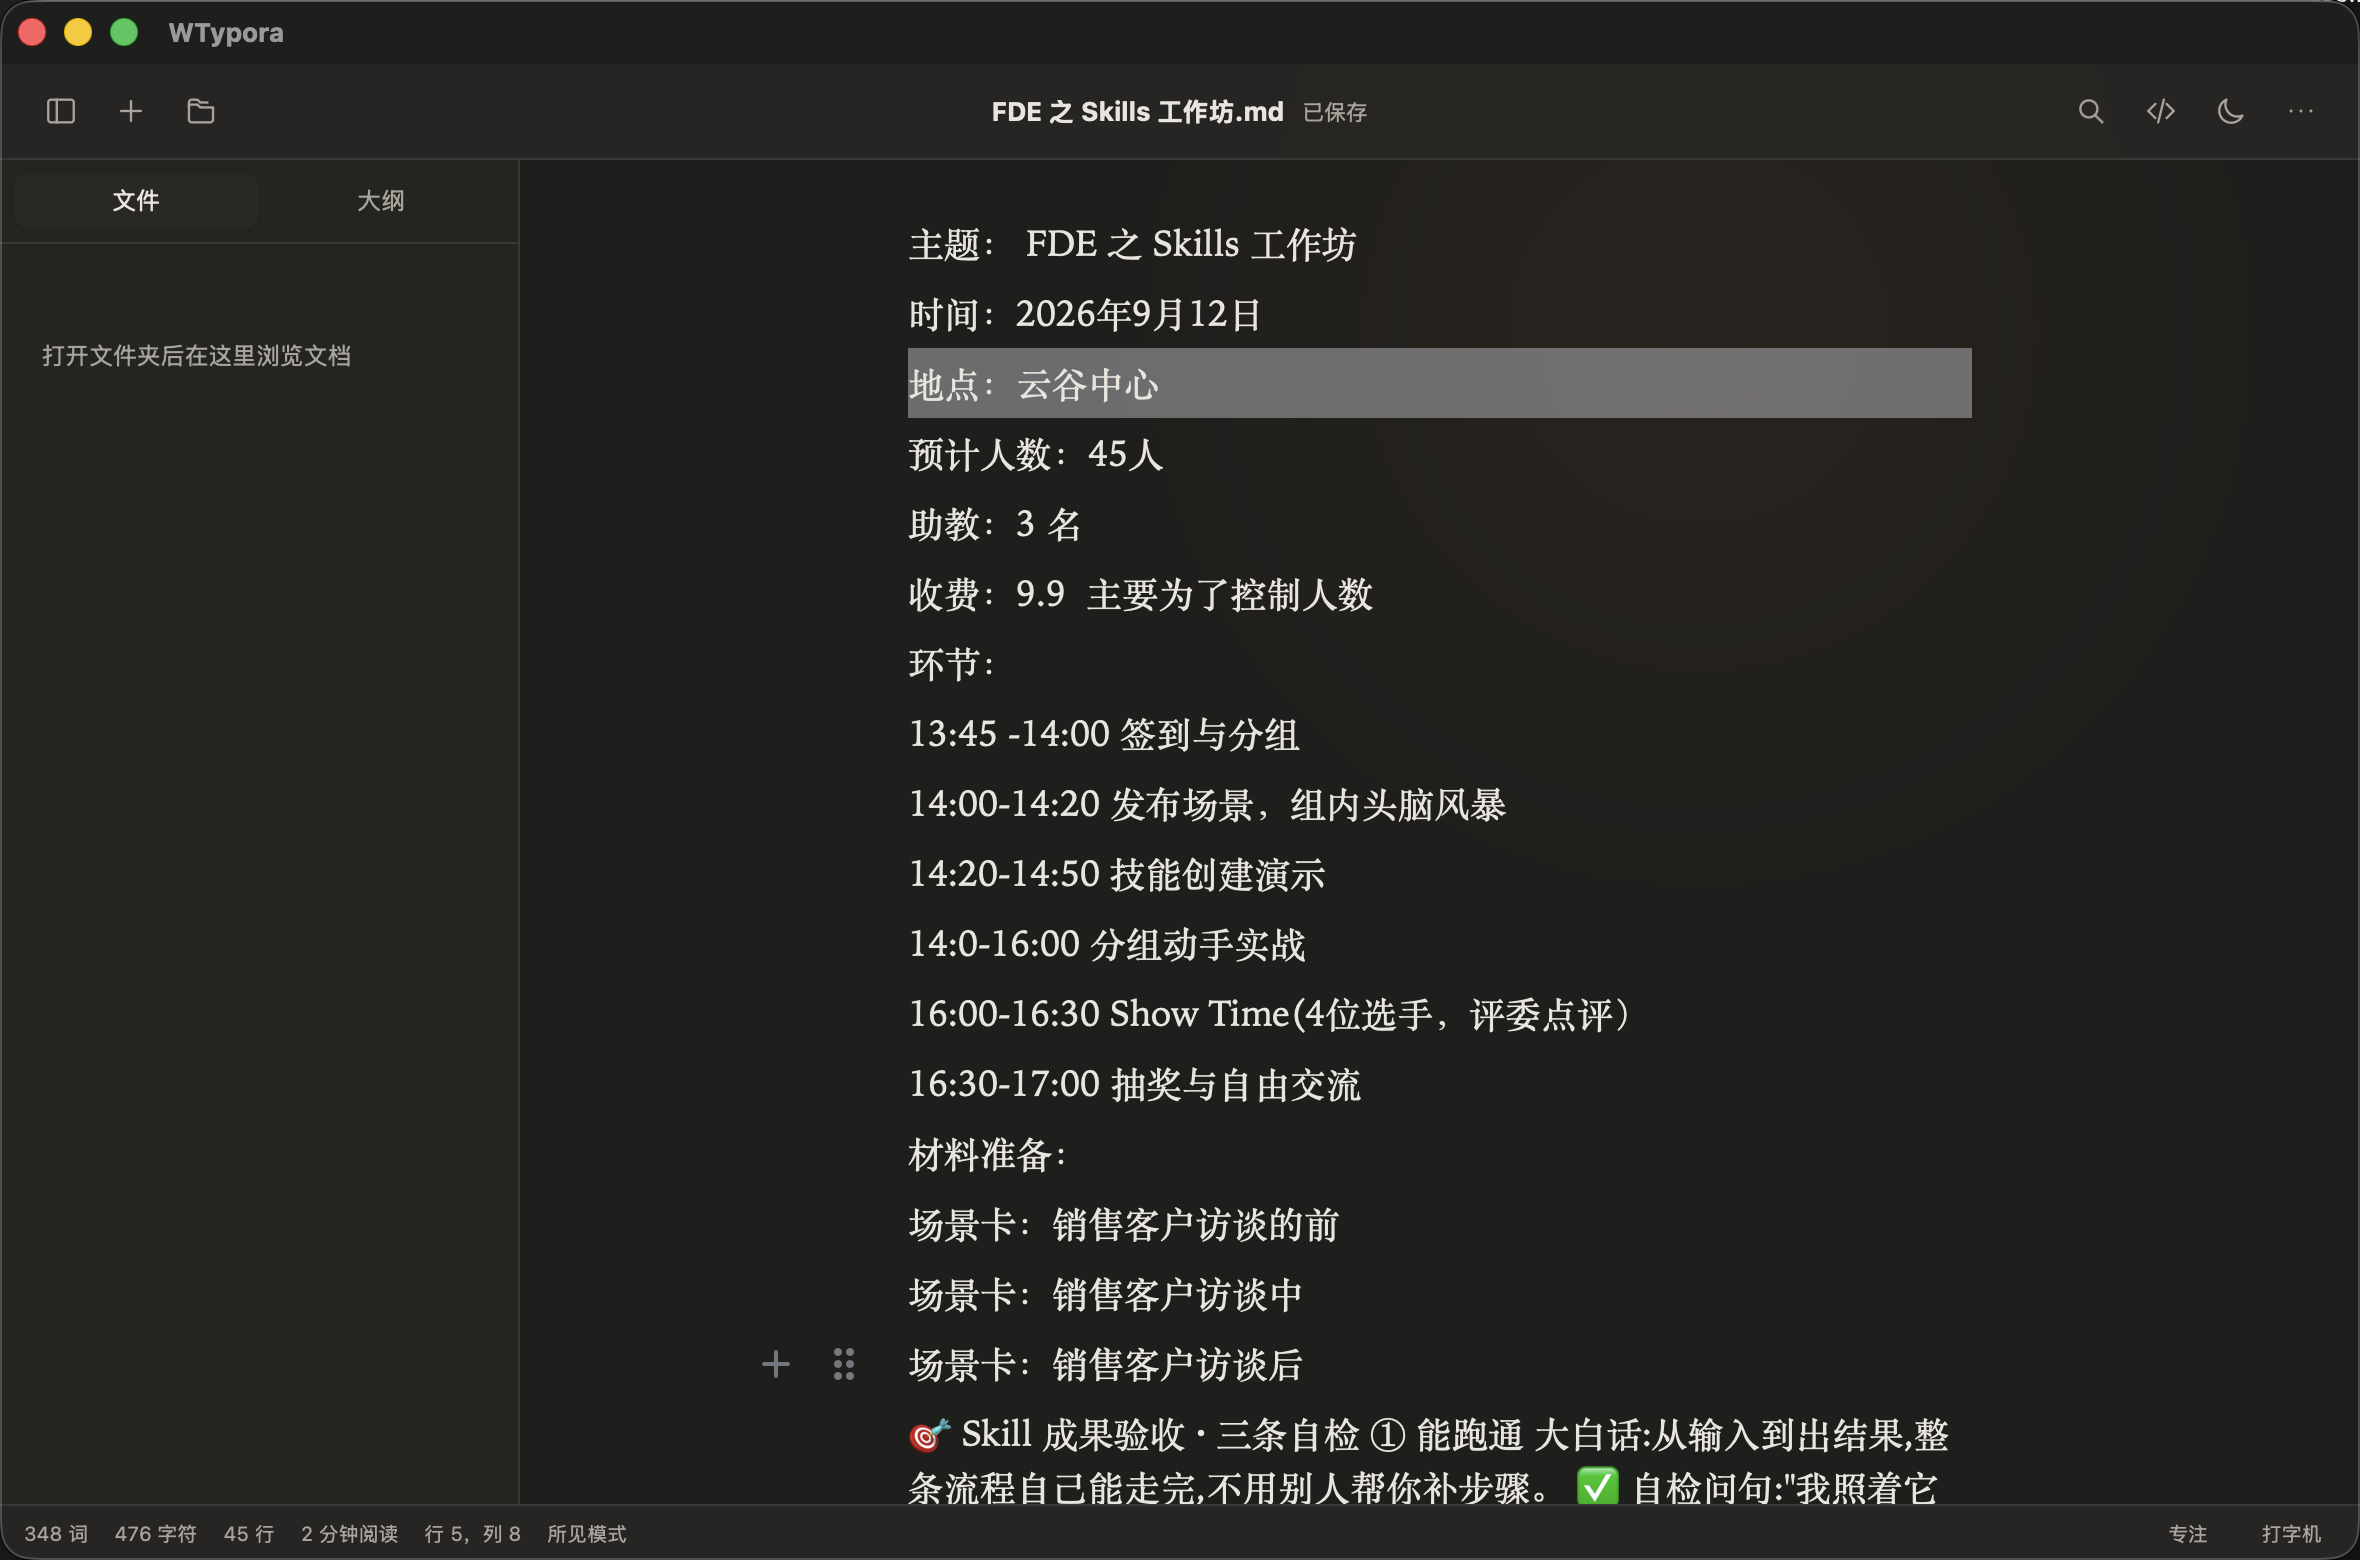
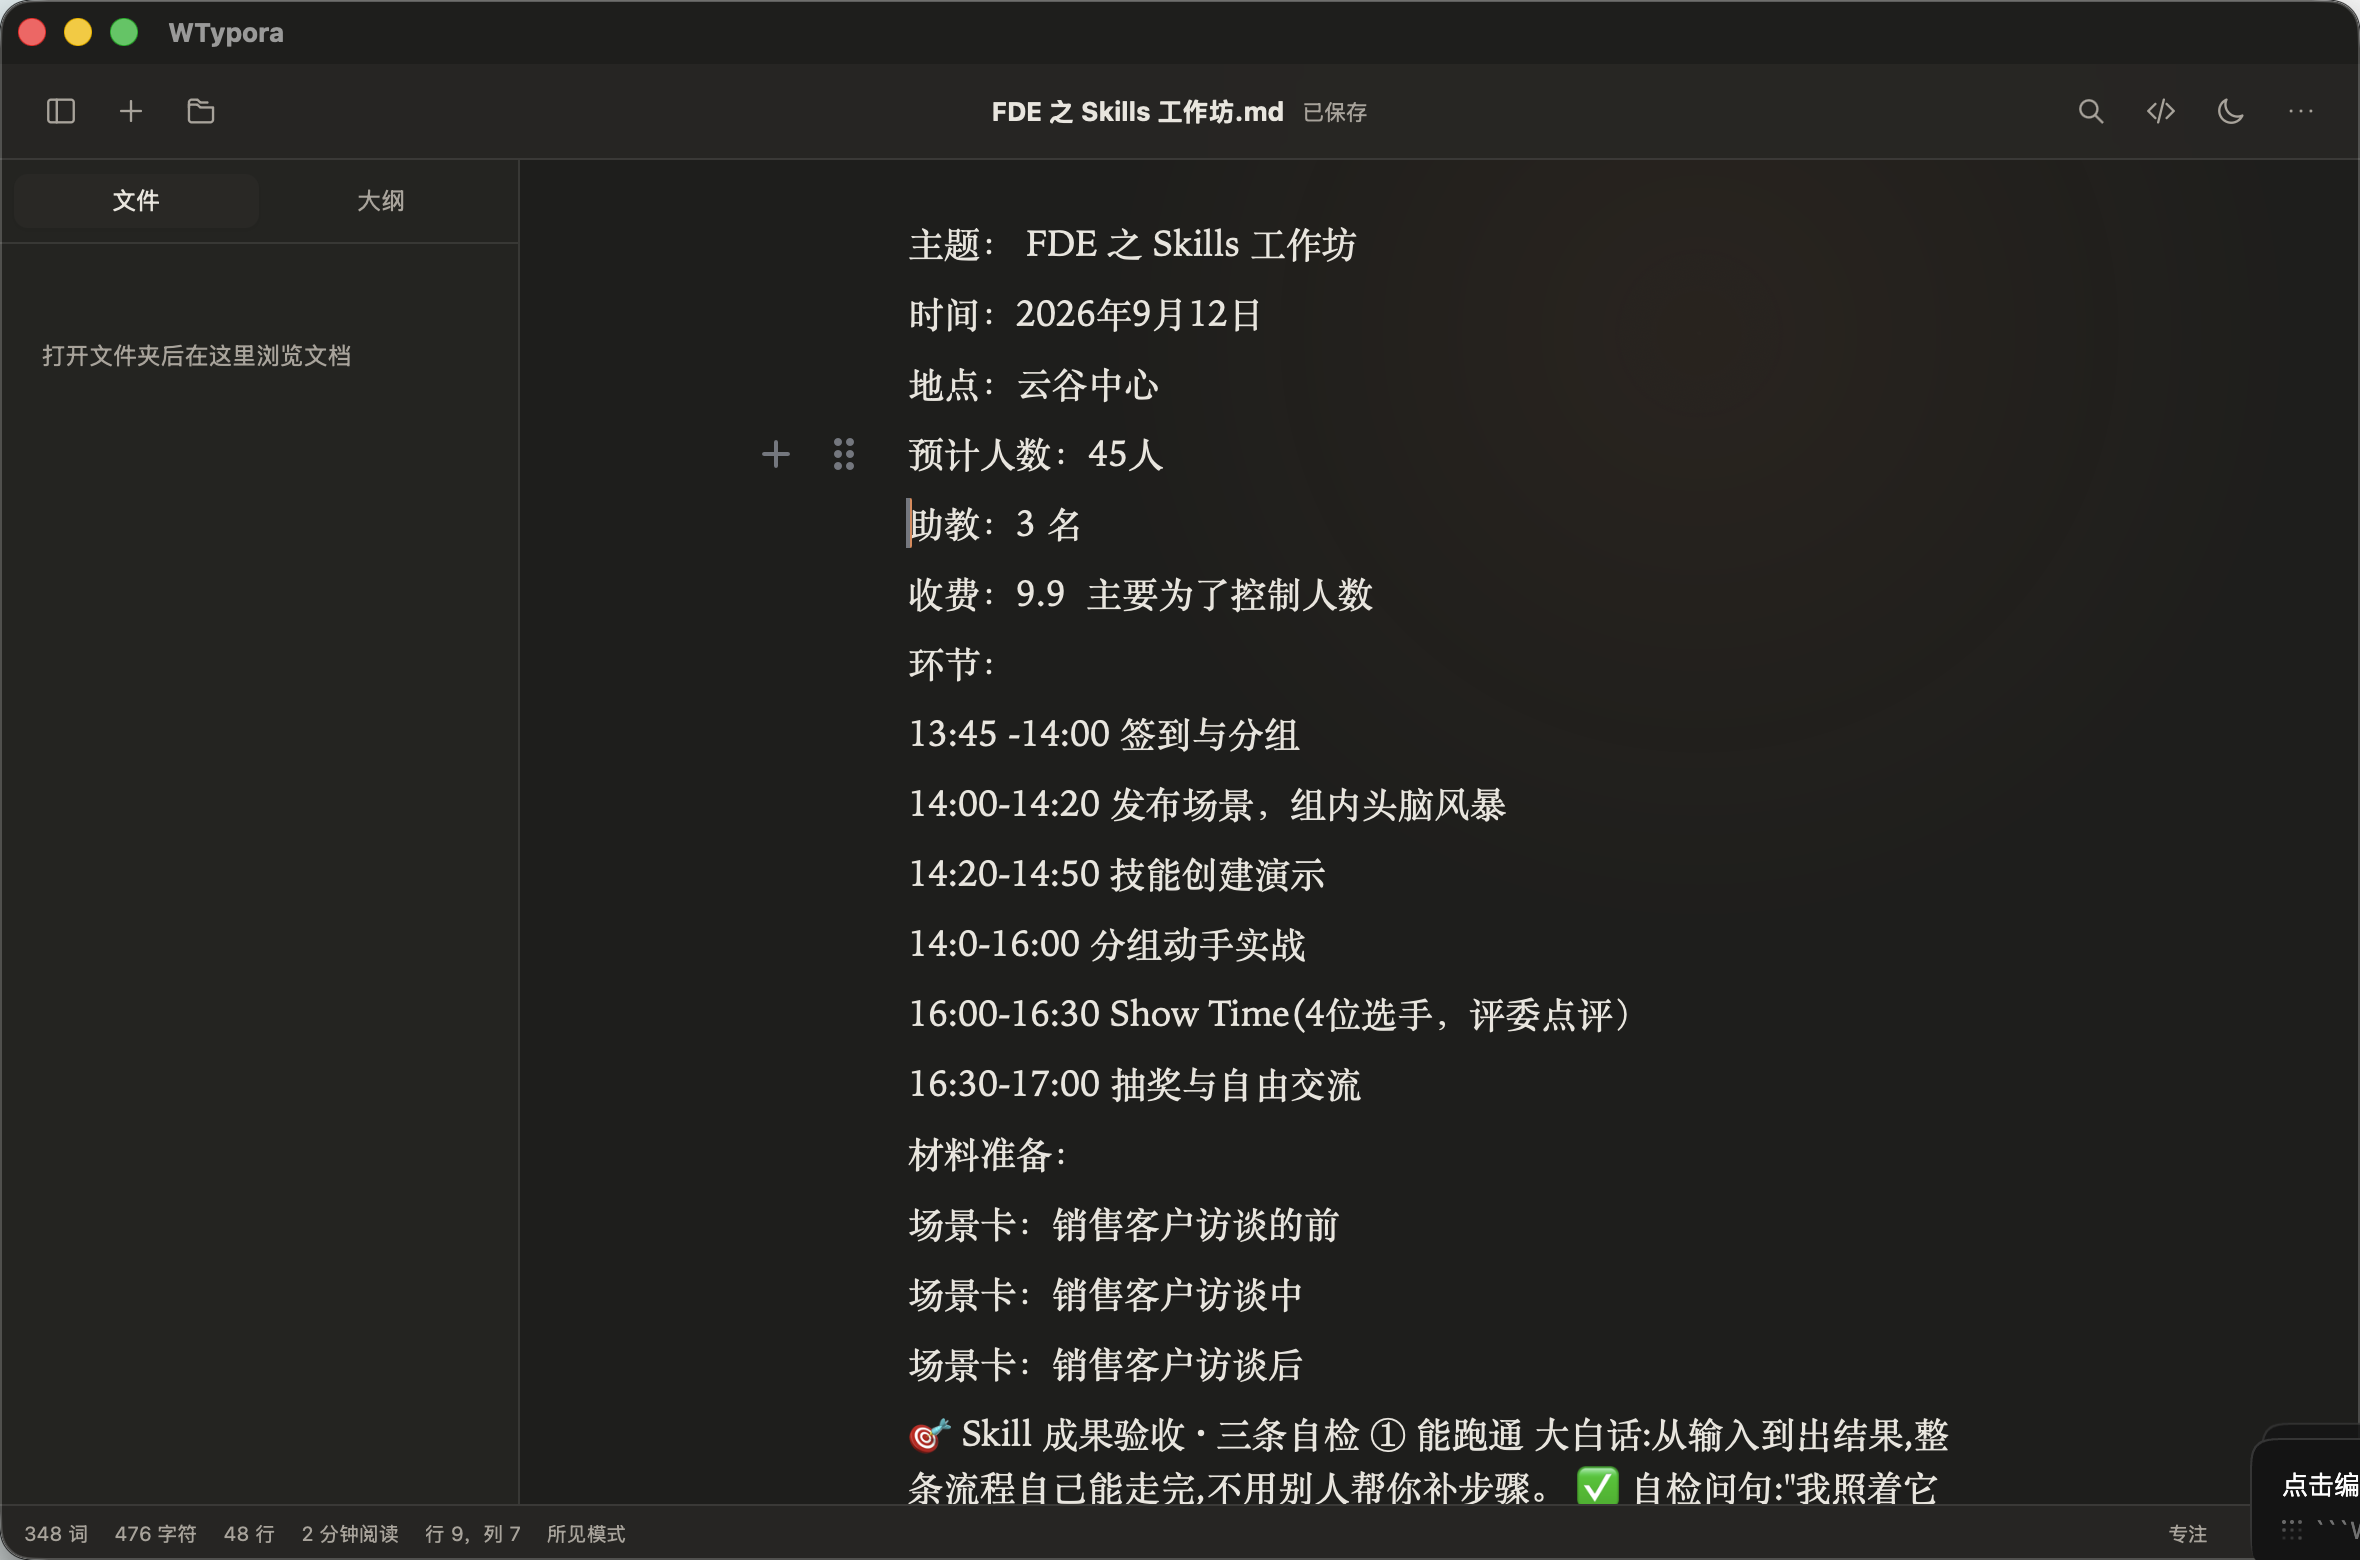
docs: update final macOS verification

diff --git a/_reports/bug-fixes/20260904-open-with-current-app/fix-report.md b/_reports/bug-fixes/20260904-open-with-current-app/fix-report.md
@@ -3,7 +3,7 @@
 - 日期：2026-09-04
 - 修复范围：macOS 文件关联、桌面打开事件、前端文档接收与编辑器初始化
 - 处理状态：已修复
-- 发布状态：修复提交 `076ff6431d3e9207cc657730161eb842f2c7cd46` 已推送至 `origin/main`；本机 `/Applications/WTypora.app` 已安装并验证
+- 发布状态：最终修复提交 `d28dbc1d0f74db4b704c276f6317ae06fb19dc24` 已推送至 `origin/main`；本机 `/Applications/WTypora.app` 已安装并验证
 
 ## 问题与影响
 
@@ -29,7 +29,7 @@
 2. 在 Tauri 运行循环中接收 `RunEvent::Opened`，过滤受支持文件，授予访问权限，聚焦窗口并通知前端。
 3. 增加一次性待打开文件队列；前端先订阅实时事件、再排空队列，兼容冷启动和应用已运行两种时序。
 4. 前端按顺序打开系统交付的最后一个有效文件，并把错误交给现有错误提示链路。
-5. 编辑器只有在检测到真实用户交互后才接受视觉编辑器产生的 Markdown 更新；程序化查找替换显式授权，避免初始化规范化触发自动保存。
+5. 编辑器只在真实用户交互的短暂事件窗口内接受视觉编辑器产生的 Markdown 更新；程序化查找替换直接同步序列化结果，避免延迟的初始化规范化借用旧交互状态触发自动保存。
 6. 增加 Rust 队列/授权测试和 React 桌面打开请求回归测试。
 
 ## 变更范围
@@ -71,8 +71,9 @@
 | 包声明与签名 | `PlistBuddy` 检查 `CFBundleDocumentTypes`；`codesign --verify --deep --strict` | 通过 |
 | 冷启动真实交互 | 退出应用后执行 `open -a /Applications/WTypora.app <样本>`，等待 5 秒并 `cmp` | 通过；文件与 mtime 均不变 |
 | 热启动真实交互 | 保持同一 PID，再次 `open -a` 打开另一文件，等待 5 秒并 `cmp` | 通过；同一进程成功切换且文件不变 |
+| 初始化点击竞态 | 冷启动样本，1 秒后点击正文，再等待 35 秒并 `cmp` | 通过；内容和 mtime 均不变 |
[3 lines of base64/hex data omitted]
 
 完整自动检查在只包含本次暂存改动的隔离快照中执行，避免把工作区现有的 `src/styles/app.css` 用户改动带入结果或安装包。
 
@@ -81,3 +82,5 @@
 - 真实系统交互仅在 macOS 上验证；Windows/Linux 的系统文件打开入口未做实机验证。
 - 本机产物为 Tauri 默认 ad-hoc 签名，未做 Apple notarization，适合当前本机安装验证，不代表公开分发签名。
 - 修复前的应用版本和中间验证版本均保留在废纸篓，可恢复；用户文档最终验证前的副本保留为 `~/.Trash/FDE-Skills-工作坊-before-final-open-20260904.md`。
+
+补充说明：最终核对曾捕获“初始化完成前点击正文”会延迟规范化空行的竞态；文档只出现空行与末尾换行差异，已立即退出应用并从上述逐字节备份恢复，最终再次确认正文、大小和修改时间与备份完全一致。
